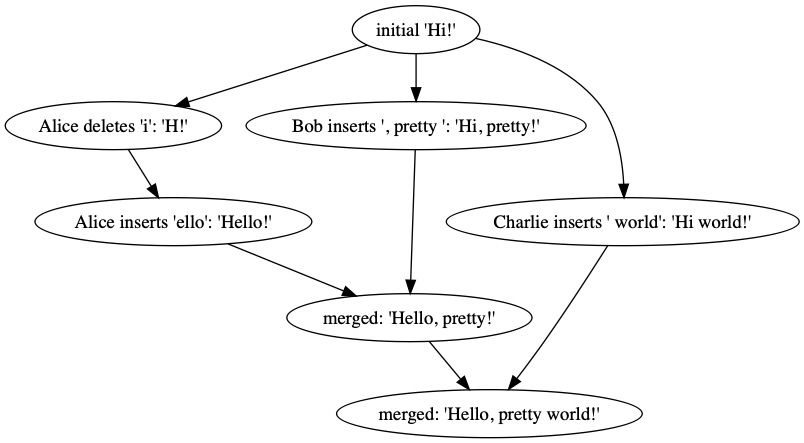
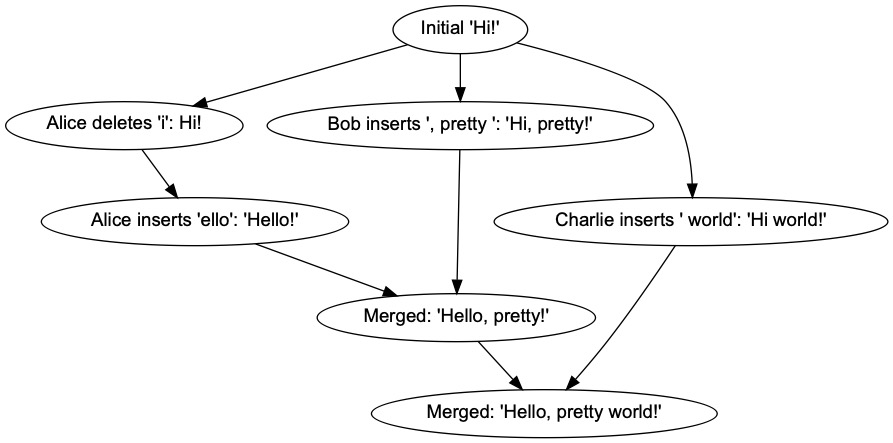
dot graphics: jpg to svg attempt

diff --git a/README.md b/README.md
@@ -1,4 +1,4 @@
-# Text VersionControl
+# Text-VersionControl
 ## Introduction
 
 Text-VersionControl provides version and concurrency control for text editing. Based on [OT(Operatioal Transformation)](https://en.wikipedia.org/wiki/Operational_transformation) and [CRDT (Conflict-free Replicated Data Type)](https://en.wikipedia.org/wiki/Conflict-free_replicated_data_type) ideas. For use in real-time, distributed collaborative document editing and history management for text contents.
@@ -60,7 +60,7 @@ Text-VersionControl provides utility functions to manipulate deltas
 
 ## SharedString
 
-![Image of a change tree](./doc/introduction.jpg)
+![Image of a change tree](./doc/introduction.svg)
 
 SharedString forms the core of Text-VersionControl's OT and CRDT functionality. SharedString is a mutable object that can be *edited* by receiving changes as delta, with awareness of forking and merging.
 
@@ -110,6 +110,7 @@ History utilizes SharedString to provide higher level functionalities. It keeps 
 	
 	![Image of revision relationship](./doc/change.jpg)
 	* By default ```rev 0``` contains the initial content
+	* Change at ```rev n``` means change right after content ```rev n```
 	* Content at ```rev 1``` is made by applying change ```rev 0``` on content at ```rev 0``` 
 	* Getting the current revision
 		* ```history.getCurrentRev()```
